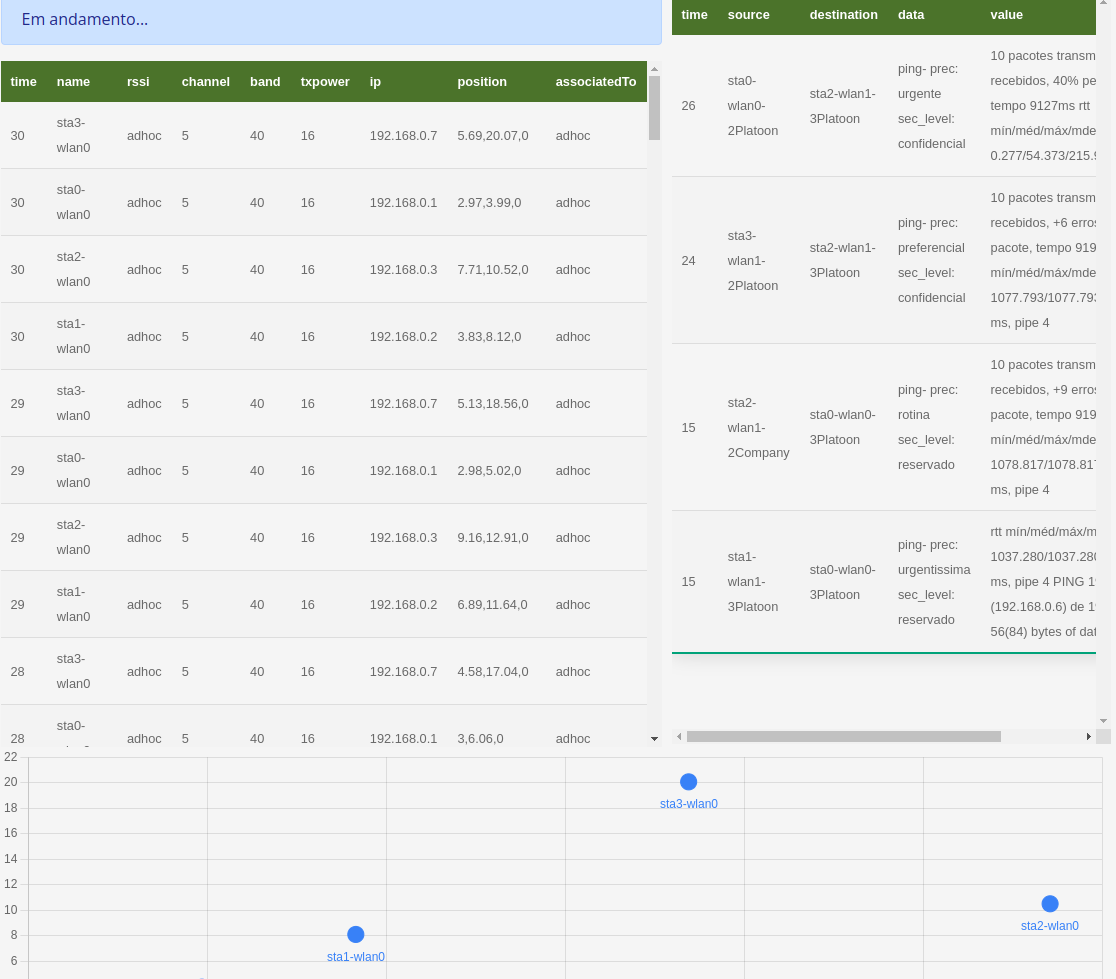
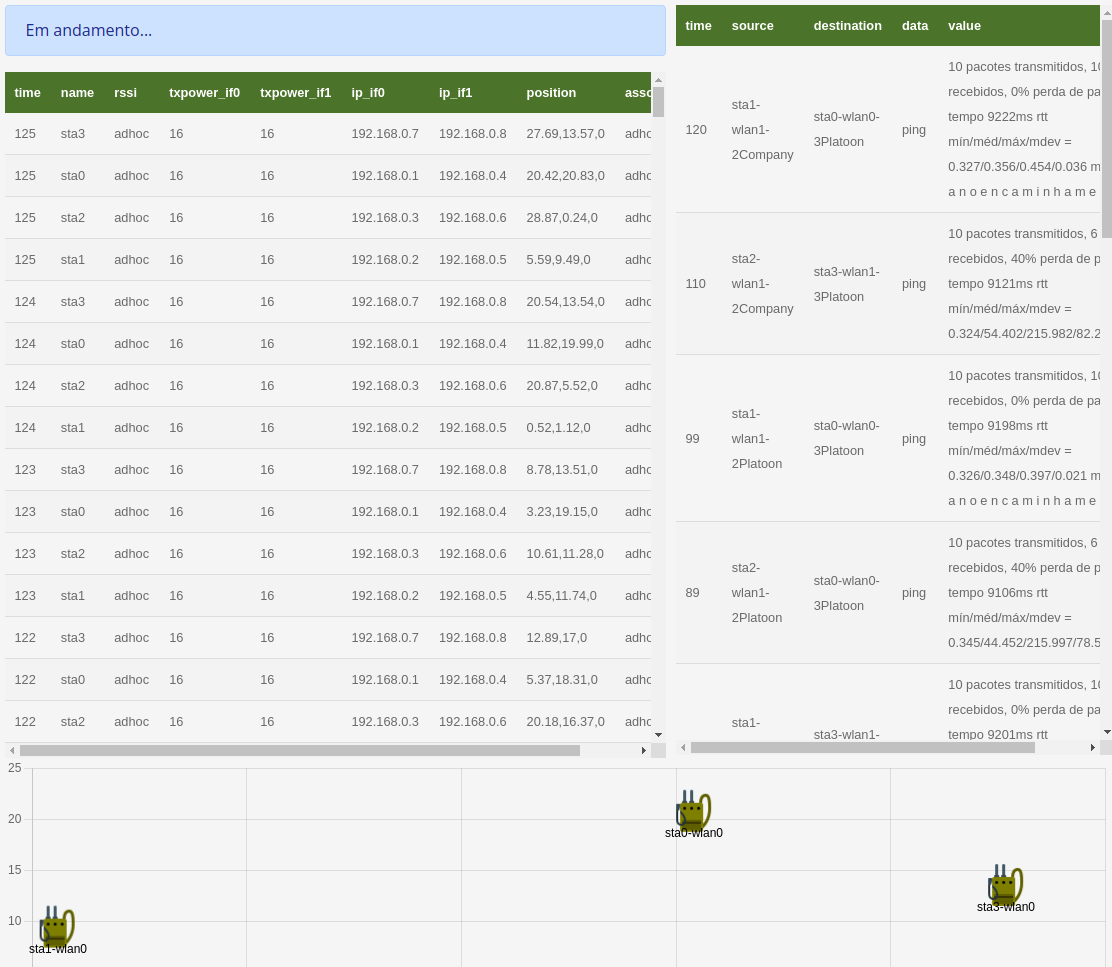
update

diff --git a/miniManager/militaryScenarioConf/templates/index.html b/miniManager/militaryScenarioConf/templates/index.html
@@ -70,11 +70,11 @@ body {font-family: Arial, Helvetica, sans-serif;}
 <form class="test-plan-form" method="POST" onsubmit="return validateForm();">
       {% csrf_token %}
   <div class="col">
-    <label for="scenario_name" class="form-label">Name of Scenario</label>
-    <input type="text" class="form-control" id="scenario_name" name="scenario_name" placeholder="Scenario x" required>
+    <label for="scenario_name" class="form-label">Nome do cenário</label>
+    <input type="text" class="form-control" id="scenario_name" name="scenario_name" placeholder="Cenário" required>
     <br><br>
-    <label for="scenario_description" class="form-label">Description</label>
-    <input type="text" class="form-control" id="scenario_description" name="scenario_description" placeholder="Description of scenario x" required>
+    <label for="scenario_description" class="form-label">Descrição</label>
+    <input type="text" class="form-control" id="scenario_description" name="scenario_description" placeholder="Descrição do cenário" required>
   </div>
 
 <br>
@@ -82,7 +82,7 @@ body {font-family: Arial, Helvetica, sans-serif;}
 <div class="col">
 
 <!-- Trigger/Open The Modal -->
-<button type="button" class="btn btn-secondary" id="myBtn">Add Military Organization</button>
+<button type="button" class="btn btn-secondary" id="myBtn">Adicionar OM</button>
 
 <!-- The Modal -->
 <div id="myModal" class="modal">
@@ -90,20 +90,20 @@ body {font-family: Arial, Helvetica, sans-serif;}
   <!-- Modal content -->
   <div class="modal-content">
     <span class="close">&times;</span>
-    <label for="fname">MO name</label>
+    <label for="fname">Nome da OM</label>
     <input type="text" id="mo_name" name="mo_name"><br><br>
 
-    <label for="commander">MO commander</label>
+    <label for="commander">OM Comandante</label>
     <select id="commander" name="commander"></select><br><br>
 
-    <label for="type">Type</label>
+    <label for="type">Tipo</label>
     <select id="type" name="type">
       {%for t in types%}
         <option>{{t.name}}</option>
       {%endfor%}
     </select><br><br>
 
-    <button type="button" class="btn btn-secondary" id="createmo">Create MO</button>
+    <button type="button" class="btn btn-secondary" id="createmo">Criar OM</button>
   </div>
 
 </div>
@@ -111,7 +111,7 @@ body {font-family: Arial, Helvetica, sans-serif;}
 <div id="output"></div>
 <br><br>
 <hr>
-<button type="button" class="btn btn-secondary" id="myBtn2">Add Military Person</button>
+<button type="button" class="btn btn-secondary" id="myBtn2">Adicionar Militar</button>
 
 <!-- The Modal -->
 <div id="myModal2" class="modal">
@@ -119,10 +119,10 @@ body {font-family: Arial, Helvetica, sans-serif;}
   <!-- Modal content -->
   <div class="modal-content">
     <span class="close2">&times;</span>
-    <label for="identifier">Identifier</label>
+    <label for="identifier">Id</label>
     <input type="text" id="identifier" name="identifier"><br><br>
 
-    <label for="person_mo">Military Organization</label>
+    <label for="person_mo">Organização Militar</label>
     <select id="person_mo" name="person_mo"></select><br><br>
 
     <label for="carrier">Carrier</label>
@@ -131,7 +131,7 @@ body {font-family: Arial, Helvetica, sans-serif;}
       <option>By Foot</option>
     </select><br><br>
 
-    <button type="button" class="btn btn-secondary" id="createmp">Create Military Person</button>
+    <button type="button" class="btn btn-secondary" id="createmp">Criar Militar</button>
   </div>
 
 </div>
@@ -144,7 +144,7 @@ body {font-family: Arial, Helvetica, sans-serif;}
 <input type="hidden" id="military_org_data" name="military_org_data" value="">
 <input type="hidden" id="military_person_data" name="military_person_data" value="">
 
-<button type="submit" class="btn btn-secondary" id="save">Save Scenario</button>
+<button type="submit" class="btn btn-secondary" id="save">Salvar Cenário</button>
 
 </div>
 </form>

diff --git a/miniManager/configurator/templates/about.html b/miniManager/configurator/templates/about.html
@@ -10,17 +10,17 @@
         <form method="POST">
           {% csrf_token %}
           <div class="container">
-              MiScManager is a manager/configurator for simulations conducted in Mininet-WiFi, focused on military operations scenarios. Through MiScManager, users can configure both the military scenario and the specifications of the wireless communication network, either by importing the configuration from an ontology or manually.<br>
-              <button type="submit" name="download_ttl" class="btn btn-secondary">Download Base Domain Ontology</button><br><br>
+              MiScManager é um gerenciador/configurador para simulações de comunicações militares que utilizam o Mininet-WiFi como emulador de redes, focadas em cenários militares criados a partir de uma ontologia de referência. Através do MiScManager, os usuários podem configurar tanto o cenário militar quanto as especificações da rede de comunicação sem fio, seja importando a configuração de uma ontologia ou manualmente.<br>
+              <button type="submit" name="download_ttl" class="btn btn-secondary">Download Ontologia de Domínio Base</button><br><br>
             </div><br><br>
 
           <div class="container">
-              MiScManager is an extension of MiniManager. Click the "Download MiniManager Paper" button to download the article about MiniManager.<br>
-              <button type="submit" name="download_paper" class="btn btn-secondary">Download MiniManager Paper</button><br><br>
+              MiScManager é uma extensão do MiniManager. Clique no botão "Baixar MiniManager Paper" para baixar o artigo sobre o MiniManager.<br>
+              <button type="submit" name="download_paper" class="btn btn-secondary">Download Artigo MiniManager</button><br><br>
             </div><br><br>
 
           <div class="container">
-              Click the download button below to download the base ontology for creating military scenarios.
+              Clique no botão de download abaixo para baixar a ontologia base para a criação de cenários militares.
             </div><br><br>
           </div>
         </form>

diff --git a/miniManager/templates/navbar.html b/miniManager/templates/navbar.html
@@ -9,22 +9,22 @@
         <div class="collapse navbar-collapse" id="navbarNav">
             <ul class="navbar-nav ml-auto">
                 <li class="nav-item">
-                    <a class="nav-link" href="/about">About</a>
+                    <a class="nav-link" href="/about">Sobre</a>
                 </li>
                 <li class="nav-item">
-                    <a class="nav-link" href="/scenario/upload_scenario/">Upload Scenario</a>
+                    <a class="nav-link" href="/scenario/upload_scenario/">Upload Cenário</a>
                 </li>
                 <li class="nav-item">
-                    <a class="nav-link" href="/scenario/index/">New Military Scenario</a>
+                    <a class="nav-link" href="/scenario/index/">Novo Cenário</a>
                 </li>
                 <li class="nav-item">
-                    <a class="nav-link" href="/test-plan">New Test Plan</a>
+                    <a class="nav-link" href="/test-plan">Novo Plano de Teste</a>
                 </li>
                 <li class="nav-item">
-                    <a class="nav-link" href="/test-plans/">List Created Test Plans</a>
+                    <a class="nav-link" href="/test-plans/">Listar Planos de Testes</a>
                 </li>
                 <li class="nav-item">
-                    <a class="nav-link" href="/support">Support</a>
+                    <a class="nav-link" href="/support">Suporte</a>
                 </li>
             </ul>
         </div>

diff --git a/miniManager/militaryScenarioConf/templates/upload_scenario.html b/miniManager/militaryScenarioConf/templates/upload_scenario.html
@@ -8,10 +8,10 @@
 <form class="test-plan-form" method="POST" enctype="multipart/form-data">
     {% csrf_token %}
   <div class="col">
-      <label for="file">Select an .owl file to upload:</label><br>
+      <label for="file">Selecione um arquivo .owl para upload:</label><br>
       <input type="file" id="file" name="file" required>
       <br><br>
-      <input type="submit" class="btn btn-secondary" value="Upload scenario">
+      <input type="submit" class="btn btn-secondary" value="Upload Cenário">
   </div>
 
     <div>

diff --git a/miniManager/configurator/templates/support.html b/miniManager/configurator/templates/support.html
@@ -8,7 +8,7 @@
 {% block content %}
 
           <div class="container"><br><br>
-              Any questions about operation, download, installation please contact us by email
+              Qualquer dúvida sobre o software, download ou instalação entre em contato conosco por email
 
 
               <b>andredemori@ime.eb.br</b>

diff --git a/miniManager/configurator/templates/edit_version.html b/miniManager/configurator/templates/edit_version.html
@@ -7,6 +7,8 @@
 
 {% block content %}
 
+<a class="btn btn-secondary" href="javascript:void(0)" onclick="history.go(-1);">Voltar</a><br><br>
+
 <div class="card edit-form">
   <h5 class="card-header">Edit mobility params to stations</h5>
   <div class="card-body">

diff --git a/miniManager/militaryScenarioConf/views.py b/miniManager/militaryScenarioConf/views.py
@@ -503,7 +503,7 @@ class UploadScenarioView(TemplateView):
 
             ###CRIA CONFIGURATION###
             # Escape the XML string properly
-            xml_string = '<?xml version="1.0" encoding="UTF-8" ?><xs:schema xmlns:xs="http://www.w3.org/2001/XMLSchema"><xs:element name="result"><xs:complexType><xs:all><xs:element name="radioFrequency"><xs:complexType><xs:sequence><xs:element name="instant" maxOccurs="unbounded"><xs:complexType><xs:sequence><xs:element name="station" minOccurs="0" maxOccurs="unbounded"><xs:complexType><xs:all><xs:element name="rssi" type="xs:string"/><xs:element name="channel" type="xs:string"/><xs:element name="band" type="xs:string"/><xs:element name="txpower" type="xs:string"/><xs:element name="ip" type="xs:string"/><xs:element name="position" type="xs:string"/><xs:element name="associatedTo" type="xs:string"/></xs:all><xs:attribute name="name" type="xs:string" use="required"/></xs:complexType></xs:element></xs:sequence><xs:attribute name="time" type="xs:string" use="required"/></xs:complexType></xs:element></xs:sequence></xs:complexType></xs:element><xs:element name="performance"><xs:complexType><xs:sequence><xs:element name="instance" minOccurs="0" maxOccurs="unbounded"><xs:complexType><xs:all><xs:element name="value" type="xs:string"/></xs:all><xs:attribute name="name" type="xs:string" use="required"/><xs:attribute name="time" type="xs:string" use="required"/><xs:attribute name="source" type="xs:string" use="required"/><xs:attribute name="destination" type="xs:string" use="required"/></xs:complexType></xs:element></xs:sequence></xs:complexType></xs:element></xs:all><xs:attribute name="roundID" type="xs:string" use="required"/></xs:complexType></xs:element></xs:schema>'
+            xml_string = '<?xml version="1.0" encoding="UTF-8" ?><xs:schema xmlns:xs="http://www.w3.org/2001/XMLSchema"><xs:element name="result"><xs:complexType><xs:all><xs:element name="radioFrequency"><xs:complexType><xs:sequence><xs:element name="instant" maxOccurs="unbounded"><xs:complexType><xs:sequence><xs:element name="station" minOccurs="0" maxOccurs="unbounded"><xs:complexType><xs:all><xs:element name="rssi" type="xs:string"/><xs:element name="txpower_if0" type="xs:string"/><xs:element name="txpower_if1" type="xs:string"/><xs:element name="ip_if0" type="xs:string"/><xs:element name="ip_if1" type="xs:string"/><xs:element name="position" type="xs:string"/><xs:element name="associatedTo" type="xs:string"/></xs:all><xs:attribute name="name" type="xs:string" use="required"/></xs:complexType></xs:element></xs:sequence><xs:attribute name="time" type="xs:string" use="required"/></xs:complexType></xs:element></xs:sequence></xs:complexType></xs:element><xs:element name="performance"><xs:complexType><xs:sequence><xs:element name="instance" minOccurs="0" maxOccurs="unbounded"><xs:complexType><xs:all><xs:element name="value" type="xs:string"/></xs:all><xs:attribute name="name" type="xs:string" use="required"/><xs:attribute name="time" type="xs:string" use="required"/><xs:attribute name="source" type="xs:string" use="required"/><xs:attribute name="destination" type="xs:string" use="required"/></xs:complexType></xs:element></xs:sequence></xs:complexType></xs:element></xs:all><xs:attribute name="roundID" type="xs:string" use="required"/></xs:complexType></xs:element></xs:schema>'
 
             propagationmodel=PropagationModel.objects.first()
             mobilitymodel=MobilityModel.objects.first()
